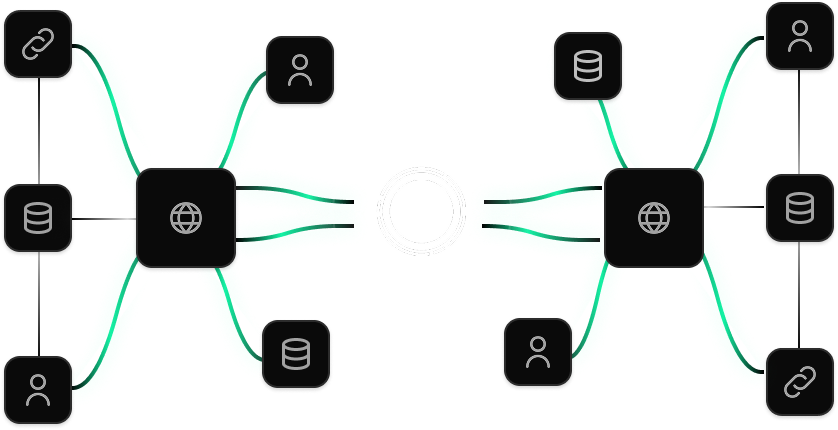
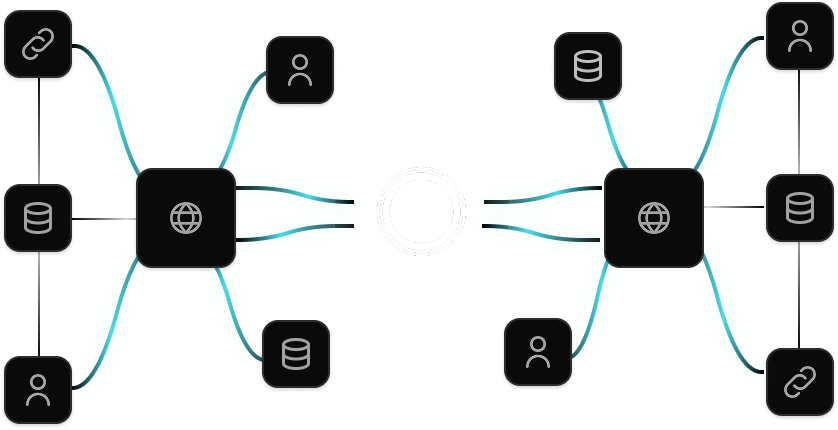
style(landing) add img to card and color

diff --git a/apps/web/src/Landing.tsx b/apps/web/src/Landing.tsx
@@ -5,6 +5,8 @@ import intuition from "../src/assets/intuition.png";
 import colony from "../src/assets/colony.png";
 import gbm from "../src/assets/gbm.png";
 import security from "../src/assets/security.png";
+import user from "../src/assets/user.png";
+import hub from "../src/assets/hub.png";
 import Roadmap from "./components/Roadmap"
 
 function Landing() {
@@ -45,18 +47,18 @@ function Landing() {
         </div>
         <div className={styles.cardMain}>
         <img
-              src={security}
-              alt="security"
-              className={styles.imgCardTop}
+              src={user}
+              alt="user"
+              className={styles.imgCardTopUser}
             />
         <div className={styles.titleCard}>Driven by Community</div>
         <span className={styles.textCard}>Your participation secures and grows the ecosystem.</span>
         </div>
         <div className={styles.cardMain}>
         <img
-              src={security}
-              alt="security"
-              className={styles.imgCardTop}
+              src={hub}
+              alt="hub"
+              className={styles.imgCardTopHub}
             />
         <div className={styles.titleCard}>Multi-Project Hub</div>
         <span className={styles.textCard}>One protocol, multiple integrations: Intuition, Colony, GBM.</span>

diff --git a/apps/web/src/styles/Landing.module.css b/apps/web/src/styles/Landing.module.css
@@ -229,6 +229,20 @@
   margin-bottom: 40px;
 }
 
+.imgCardTopUser {
+  width: 85%;
+  margin-left: auto;
+  margin-right: auto;
+  margin-bottom: 40px;
+}
+
+.imgCardTopHub {
+  width: 95%;
+  margin-left: auto;
+  margin-right: auto;
+  margin-bottom: 40px;
+}
+
 .titleCard {
   font-weight: 500;
   font-size: 20px;
@@ -251,7 +265,7 @@
   max-width: 960px;
   font-size: 30px;
   font-weight: 500;
-  color: #14F3A5;
+  color: #4adaea;
   margin-top: 20px;
   padding-left: 30px;
   padding-right: 30px;
@@ -265,7 +279,7 @@
   max-width: 960px;
   font-size: 30px;
   font-weight: 500;
-  color: #14F3A5;
+  color: #4ADAEA;
   margin-top: 20px;
   padding-left: 30px;
   padding-right: 30px;
@@ -287,7 +301,7 @@
   max-width: 960px;
   font-size: 30px;
   font-weight: 500;
-  color: #14F3A5;
+  color: #4ADAEA;
   display: flex;
   align-items: center;
   justify-content: end;
@@ -466,6 +480,21 @@
     margin-right: auto;
     margin-bottom: 40px;
   }
+
+  .imgCardTopUser {
+    width: 70%;
+    margin-left: auto;
+    margin-right: auto;
+    margin-bottom: 40px;
+  }
+
+  .imgCardTopHub {
+    width: 70%;
+    margin-left: auto;
+    margin-right: auto;
+    margin-bottom: 40px;
+  }
+
 
   .containerCardMain {
     display: flex;
